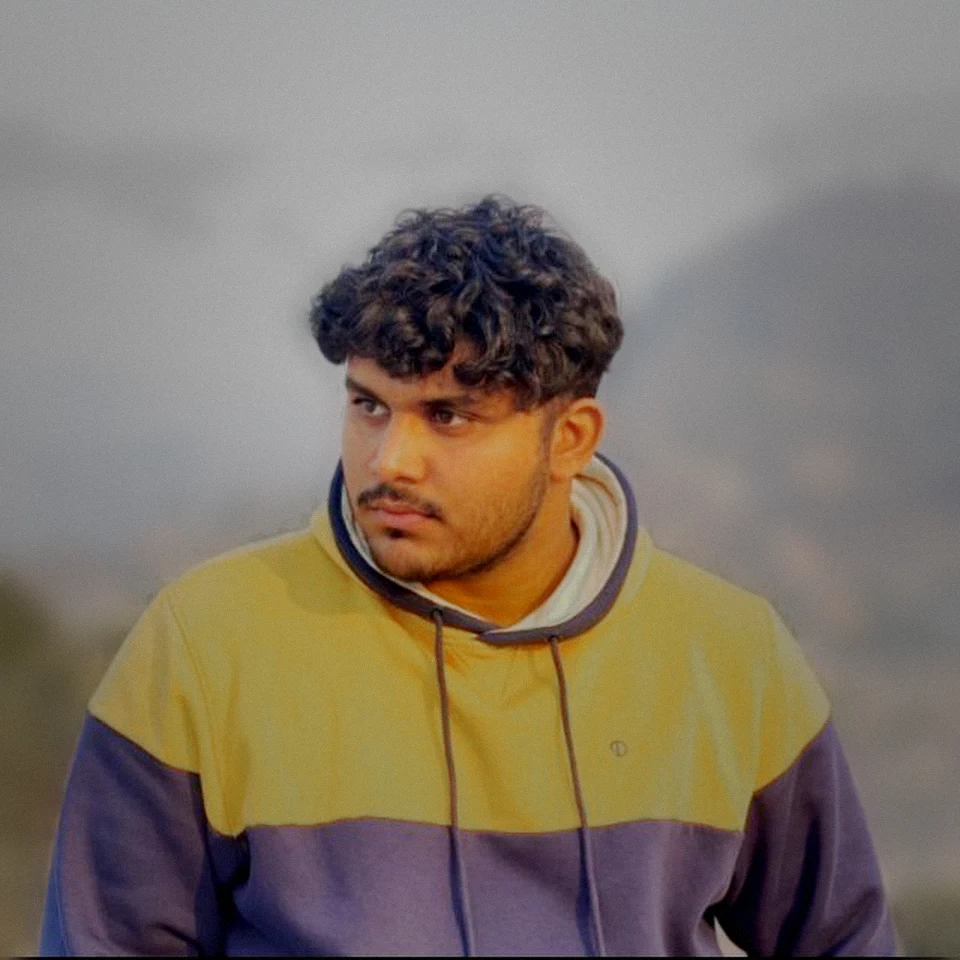
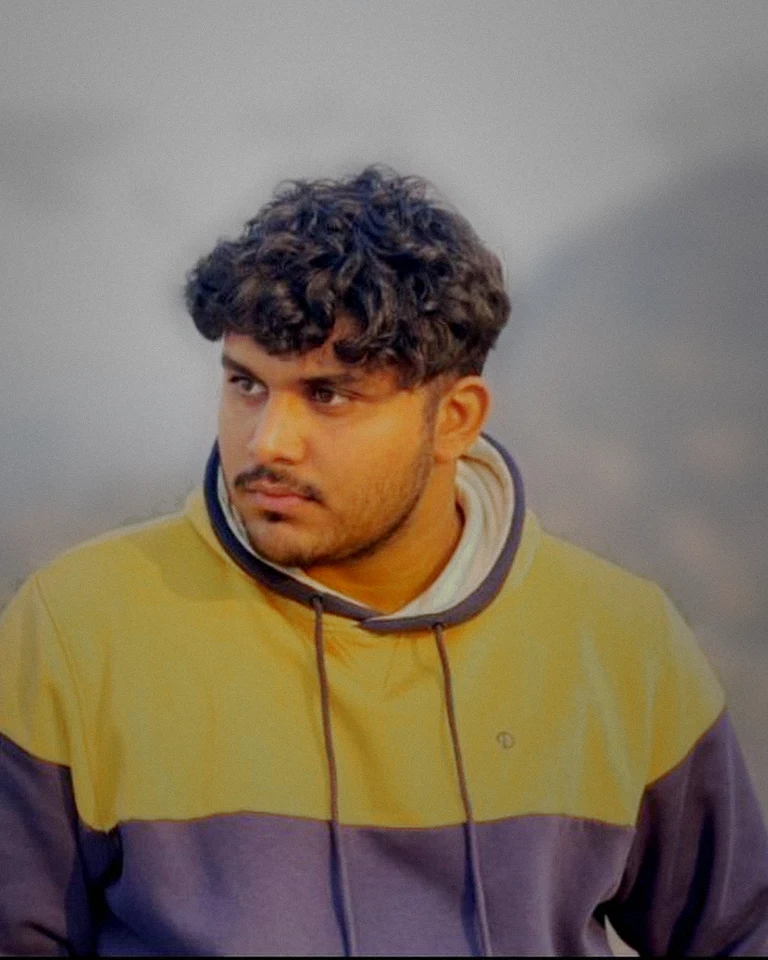
Update site

diff --git a/assets/main.css b/assets/main.css
@@ -81,14 +81,15 @@ a:hover { text-decoration-color: var(--accent); }
 .scene-title { font: 400 clamp(40px, 5vw, 64px)/1.02 var(--serif); letter-spacing: -.02em; color: var(--text); }
 .scene-dek { max-width: 600px; font-size: 18px; color: var(--body); }
 
-/* Scene 01 — hero */
-.hero { display: grid; grid-template-columns: minmax(0, 1.25fr) minmax(0, 1fr); gap: clamp(32px, 5vw, 72px); align-items: center; padding-block: clamp(40px, 6vw, 80px) clamp(40px, 5vw, 72px); }
-.hero h1 { margin-top: 20px; font: 600 clamp(48px, 6.6vw, 88px)/.98 var(--sans); letter-spacing: -.04em; color: var(--text); }
-.hero .statement { margin-top: 28px; max-width: 30ch; font: 400 clamp(21px, 2vw, 26px)/1.35 var(--sans); letter-spacing: -.015em; color: var(--text); }
-.hero .secondary { margin-top: 16px; max-width: 48ch; color: var(--body); }
-.hero-portrait { position: relative; margin: 0; justify-self: end; width: min(100%, 620px); aspect-ratio: 1 / 1;
-  -webkit-mask-image: radial-gradient(closest-side at 52% 50%, #000 58%, rgba(0,0,0,.6) 76%, transparent 100%); mask-image: radial-gradient(closest-side at 52% 50%, #000 58%, rgba(0,0,0,.6) 76%, transparent 100%); }
-.hero-portrait img { width: 100%; height: 100%; object-fit: cover; transform: translate3d(var(--px, 0px), var(--py, 0px), 0) scale(1.02); transition: transform .9s var(--ease); }
+/* Scene 01 — hero: text and a composed 4:5 photograph, roughly 55 / 45 */
+.hero { display: grid; grid-template-columns: minmax(0, 1.2fr) minmax(0, 1fr); gap: clamp(40px, 6vw, 96px); align-items: center;
+  min-height: min(calc(100svh - 74px), 820px); padding-block: clamp(40px, 6vw, 80px); }
+.hero-text { max-width: 600px; }
+.hero h1 { margin-top: 18px; font: 600 clamp(52px, 6.4vw, 88px)/.96 var(--sans); letter-spacing: -.045em; color: var(--text); }
+.hero .statement { margin-top: 28px; max-width: 24ch; font: 400 clamp(21px, 1.9vw, 25px)/1.38 var(--sans); letter-spacing: -.015em; color: #d9d6cf; }
+.hero .actions { margin-top: 40px; }
+.hero-portrait { position: relative; margin: 0; justify-self: end; width: 100%; max-width: 500px; aspect-ratio: 4 / 5; overflow: hidden; border-radius: 3px; background: var(--bg-2); }
+.hero-portrait img { width: 100%; height: 100%; object-fit: cover; }
 
 /* Scene 02 — Clyflo showcase */
 .showcase-frame { position: relative; aspect-ratio: 16 / 9; overflow: hidden; border: 1px solid var(--line); border-radius: 4px; background: var(--bg-2); }
@@ -255,15 +256,13 @@ details > div { padding-bottom: 16px; }
 
 /* ============================ Motion (non-essential) ============================ */
 @media (prefers-reduced-motion: no-preference) {
-  .hero-portrait { animation: fade-in 1.6s var(--ease) .1s both; }
-  .hero-portrait img { animation: settle 2.4s var(--ease) .1s both; }
+  .hero-portrait { animation: portrait-in .8s var(--ease) .15s both; }
   .hero-text > * { animation: rise .6s var(--ease) both; }
   .hero-text > :nth-child(2) { animation-delay: .06s; }
   .hero-text > :nth-child(3) { animation-delay: .12s; }
   .hero-text > :nth-child(4) { animation-delay: .18s; }
   .hero-text > :nth-child(5) { animation-delay: .24s; }
-  @keyframes fade-in { from { opacity: 0; } }
-  @keyframes settle { from { transform: scale(1.1); } }
+  @keyframes portrait-in { from { opacity: 0; transform: translateY(14px); } }
   @keyframes rise { from { opacity: 0; transform: translateY(10px); } }
   .reveal-pending { opacity: 0; transform: translateY(16px); }
   .reveal-in { opacity: 1; transform: none; transition: opacity .7s var(--ease), transform .7s var(--ease); }
@@ -283,7 +282,9 @@ details > div { padding-bottom: 16px; }
 }
 @media (max-width: 860px) {
   .hero { grid-template-columns: minmax(0, 1fr); gap: 24px; padding-top: 0; }
-  .hero-portrait { order: -1; justify-self: center; width: min(100%, 520px); margin: -8px 0 -40px; }
+  .hero { min-height: 0; gap: 28px; }
+  .hero-portrait { order: -1; justify-self: stretch; max-width: none; aspect-ratio: 5 / 4; }
+  .hero-portrait img { object-position: 50% 30%; }
   .hero-text { position: relative; z-index: 1; }
   .hero h1 { margin-top: 0; }
   .scene-head, .editorial, .showcase-panel { grid-template-columns: minmax(0, 1fr); }

diff --git a/index.html b/index.html
@@ -38,10 +38,9 @@
     <p class="label">Applied AI Engineer · Karachi</p>
     <h1 id="hero-name">Muhammad Qasim</h1>
     <p class="statement">Building agentic, retrieval, and multimodal AI systems — from research to working software.</p>
-    <p class="secondary">I work across AI research, knowledge systems, agent architecture, multimodal intelligence, and production engineering.</p>
     <p class="actions"><a class="btn btn-primary" href="work.html">View Work <span class="arr" aria-hidden="true">→</span></a><a class="btn" href="assets/Muhammad_Qasim_Resume_Final.pdf" download>Download Résumé</a></p>
   </div>
-  <figure class="hero-portrait"><picture><source srcset="assets/portrait-hero.webp" type="image/webp"><img src="assets/portrait-hero.jpg" width="960" height="960" alt="Portrait of Muhammad Qasim" fetchpriority="high"></picture></figure>
+  <figure class="hero-portrait"><picture><source srcset="assets/portrait-hero.webp" type="image/webp"><img src="assets/portrait-hero.jpg" width="768" height="960" alt="Portrait of Muhammad Qasim" fetchpriority="high"></picture></figure>
 </section>
 </div>
 

diff --git a/assets/site.js b/assets/site.js
@@ -27,15 +27,6 @@
     select(0, false);
   });
 
-  // Portrait depth: a few pixels of drift toward the pointer (desktop with a mouse only).
-  const portrait = document.querySelector('.hero-portrait img');
-  if (portrait && matchMedia('(hover: hover) and (prefers-reduced-motion: no-preference)').matches) {
-    addEventListener('pointermove', e => {
-      const x = (e.clientX / innerWidth - .5) * -10, y = (e.clientY / innerHeight - .5) * -8;
-      portrait.style.setProperty('--px', x.toFixed(1) + 'px'); portrait.style.setProperty('--py', y.toFixed(1) + 'px');
-    }, { passive: true });
-  }
-
   // Sparing section reveals: only major sections that start below the fold.
   if (matchMedia('(prefers-reduced-motion: reduce)').matches || !('IntersectionObserver' in window)) return;
   const io = new IntersectionObserver(entries => entries.forEach(e => {
